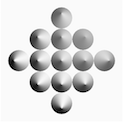
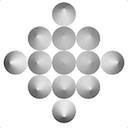
code refinements

Changed region(s): [[0.0, 0.0, 1.0, 0.9756], [0.3438, 0.6098, 0.375, 0.6341]]

diff --git a/motion/p5js/cones/index.js b/motion/p5js/cones/index.js
@@ -1,58 +1,51 @@
-const height = 60;
-const radius = 60;
-let y = 0;
+const myHeight = 30;
+const radius = 30;
+
+const light_r = light_g = light_b = 250;
+const light_a = 255;
+
+let counter = 0;
 let increment = 1;
 
 function setup() {
-  var canvas = createCanvas(500, 500, WEBGL);
-  frameRate(30);
+  var canvas = createCanvas(300, 300, WEBGL);
   canvas.parent('sketch');
 }
 
-function drawCones(count, current) {
-  current = current || 1;
-
-  if (current > count) {
-    return;
-  }
-
-  cone(radius, height);
+function drawACone(_x, _y) {
   push();
-  translate(2 * radius, 0);
-  drawCones(count, current + 1);
-  pop();
-}
-
-function drawRotated(count, position) {
-  push();
+  translate(_x, _y);
   rotateX(radians(90));
-  drawCones(count, position);
+  cone(radius, myHeight);
   pop();
-}
-
-function draw() {
-  camera(0, 0, 300);
-  background(250);
-
-  y = y + increment;
-
-  if (y === 0) {
-    increment = 1;
-  } else if (y === height) {
-    increment = -1;
-  }
 }
 
 function draw(){
-  pointLight(250, 250, 250, y * 8, y * 8, 0);
-  translate(0, - 4 * radius);
-  drawRotated(1);
-  translate(-2 * radius, 2 * radius);
-  drawRotated(3);
-  translate(-2 * radius, 2 * radius);
-  drawRotated(5);
-  translate(2* radius, 2 * radius);
-  drawRotated(3);
-  translate(2 * radius, 2 * radius);
-  drawRotated(1);
+  counter += increment;
+
+  if (counter === 0) {
+    increment = 1;
+  } else if (counter === height) {
+    increment = -1;
+  }
+
+  var light_x = sin(radians(counter)) * radius;
+  var light_y = cos(radians(counter)) * radius;
+  var light_z = counter;
+
+  pointLight(light_r, light_g, light_b, light_a, light_x, light_y, light_z);
+
+  drawACone(0, 0);
+  drawACone(0, radius * 2);
+  drawACone(0, -radius * 2);
+  drawACone(-radius * 2, 0);
+  drawACone(radius * 2, 0);
+  drawACone(radius * 2, radius * 2);
+  drawACone(-radius * 2, -radius * 2);
+  drawACone(radius * 2, -radius * 2);
+  drawACone(-radius * 2, radius * 2);
+  drawACone(0, -radius * 4);
+  drawACone(0, radius * 4);
+  drawACone(radius * 4, 0);
+  drawACone(-radius * 4, 0);
 }

diff --git a/motion/p5js/cones/index.html b/motion/p5js/cones/index.html
@@ -1,0 +1,20 @@
+<!doctype html>
+<html lang="en">
+  <head>
+    <meta http-equiv="Content-Type" content="text/html; charset=utf-8">
+    <style>
+    #sketch{
+      display: flex;
+      justify-content:center;
+      align-items:center;
+      height:100vh;
+    }
+    </style>
+    <!-- <link rel="stylesheet" type="text/css" href="assets/css/styles.css"> -->
+  </head>
+  <body>
+    <div id="sketch"></div>
+    <script type="text/javascript" src="https://cdn.jsdelivr.net/p5.js/0.5.8/p5.min.js"></script>
+    <script type="text/javascript" src="index.js"></script>
+  </body>
+</html>
